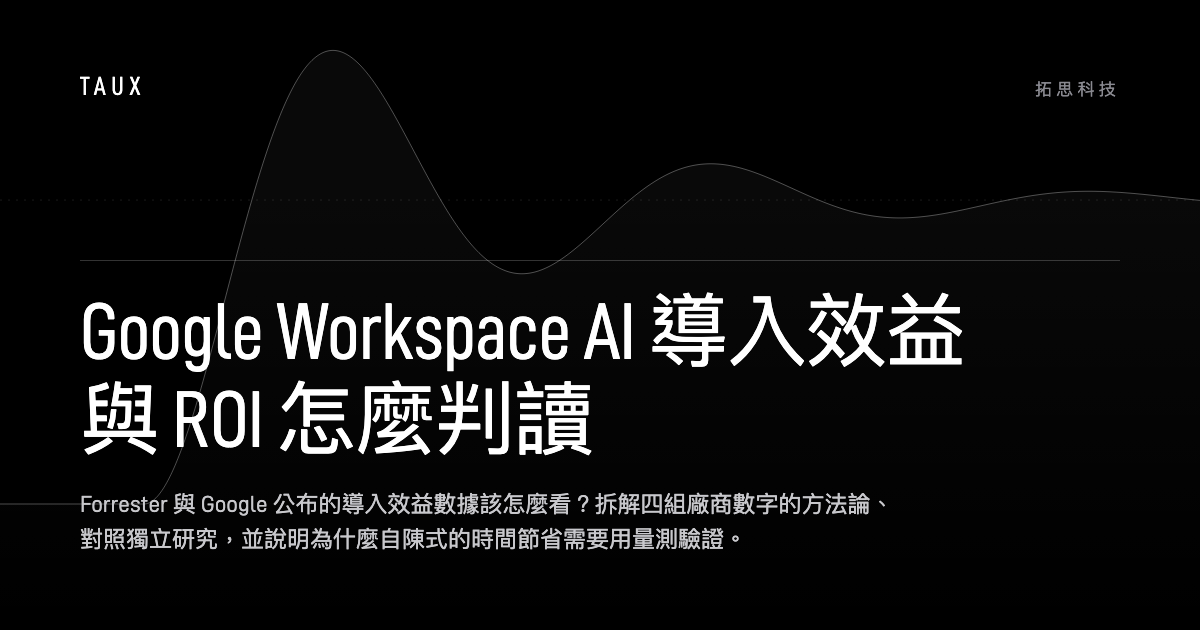
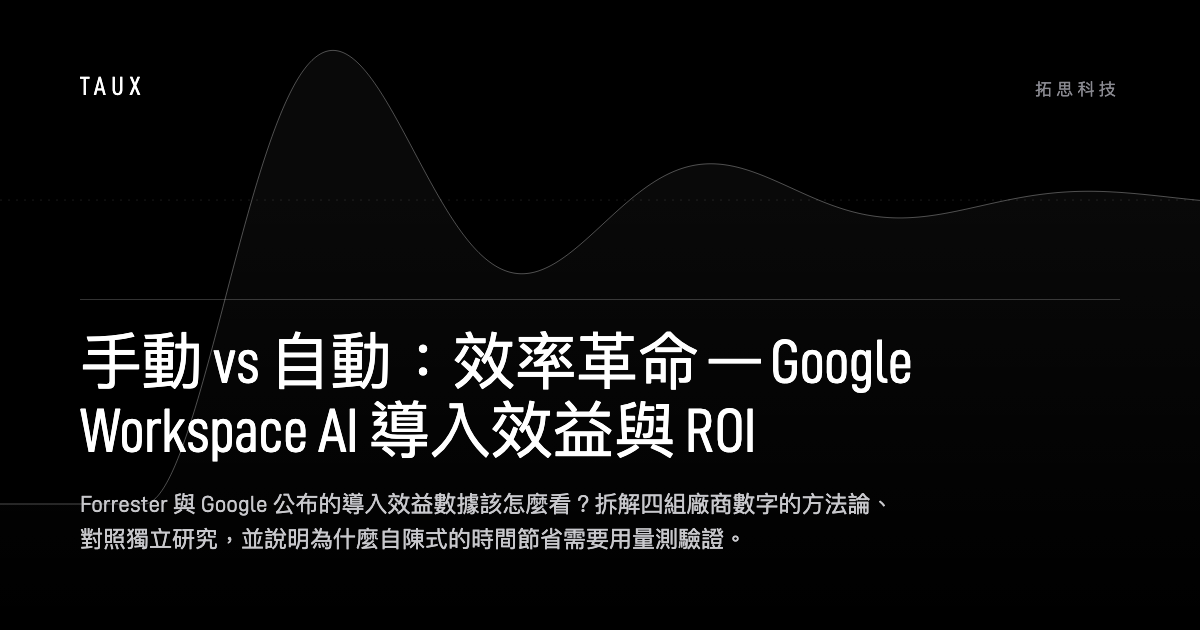
fix: address the review findings on the ROI guide skeleton
Refs #17.

**Chinese text in .eyebrow** — the class applies uppercase and 0.25em
tracking, which NOTES.md reserves for Latin precisely because Chinese has
no uppercase and reads badly when tracked. Five instances on the new page
are now Latin. The review claimed every other eyebrow in the repo was
already Latin-only; that was wrong — index.html carried `TauX — 拓思科技`.
It is fixed here too. Leaving a known breach of a documented rule in place
because it predates the change is how the rule becomes optional, and this
project has spent long enough undoing exactly that.

**An unsourced claim on an indexed page** — the hero asserted that all four
figures had been verified and were accurate, on a page that carries no
sources until #18. On a page whose argument is that claims need their
method shown, that was the wrong thing to ship. The claim waits for the
evidence.

**Scope belonging to #18** — the section bodies had been arguing the
article's case rather than describing what the sections will hold. Reduced
to scaffolding. The closing call to action stays: a page reachable from
the menu with no way out is worse than a little bleed, and #18 refines it.

**A share card announcing a different article** — the card takes its title
from main.go, so a reader clicked one headline and landed on another. The
document title now leads with the h1 and keeps the search terms after it,
so both agree.

**Two copies of the description** — the JSON-LD now reads {{ .Description }}
[…]

Changed region(s): [[0.0617, 0.4524, 0.8017, 0.7238]]

diff --git a/templates/workspace-ai-roi.html b/templates/workspace-ai-roi.html
@@ -18,7 +18,7 @@
       "@type": "Article",
       "@id": "https://taux.io/workspace-ai-roi#article",
       "headline": "手動 vs 自動：效率革命",
-      "description": "Forrester 與 Google 公布的導入效益數據該怎麼看？拆解四組廠商數字的方法論、對照獨立研究，並說明為什麼自陳式的時間節省需要用量測驗證。",
+      "description": "{{ .Description }}",
       "author": { "@type": "Organization", "name": "TauX 拓思科技", "url": "https://taux.io" },
       "publisher": {
         "@type": "Organization",
@@ -38,15 +38,15 @@
 <article class="relative pt-32 pb-16 px-6 overflow-hidden bg-surface">
     <div class="max-w-4xl mx-auto relative z-10">
         <header>
-            <p class="eyebrow mb-8">Google Workspace — 導入效益</p>
+            <p class="eyebrow mb-8">Google Workspace — Adoption</p>
 
             <h1 class="font-display text-4xl md:text-display-lg leading-[1.05] mb-8 text-ink">
                 手動 vs 自動：效率革命
             </h1>
 
             <p class="text-lg md:text-xl text-ink-body leading-relaxed max-w-2xl">
-                廠商公布的導入效益數字都很漂亮。問題不在它們是真是假——四組主要數據我們逐一查證過，數字全部屬實——
-                而在於它們<strong class="text-ink font-normal">測的是什麼</strong>，以及那個測法能不能預測你的組織會發生什麼。
+                廠商公布的導入效益數字都很漂亮。這一頁要處理的不是它們是真是假，
+                而是它們<strong class="text-ink font-normal">測的是什麼</strong>，以及那個測法能不能預測你的組織會發生什麼。
             </p>
         </header>
 
@@ -60,7 +60,7 @@
 
 <section id="vendor-figures" class="py-20 md:py-24 bg-surface border-t border-line">
     <div class="max-w-4xl mx-auto px-6">
-        <p class="eyebrow mb-8">01 — 廠商公布的數字</p>
+        <p class="eyebrow mb-8">01 &mdash; Vendor Figures</p>
         <h2 class="font-display text-3xl md:text-display-sm text-ink mb-6">他們說省下了多少</h2>
         <p class="text-ink-body leading-relaxed max-w-2xl">
             四組被引用最廣的數據，來自 Forrester 的委託研究、Google 的企業調查，以及兩家企業的導入案例。
@@ -71,33 +71,30 @@
 
 <section id="independent-evidence" class="py-20 md:py-24 bg-surface border-t border-line">
     <div class="max-w-4xl mx-auto px-6">
-        <p class="eyebrow mb-8">02 — 獨立研究怎麼說</p>
+        <p class="eyebrow mb-8">02 &mdash; Independent Research</p>
         <h2 class="font-display text-3xl md:text-display-sm text-ink mb-6">效益是真的，這點有非廠商證據</h2>
         <p class="text-ink-body leading-relaxed max-w-2xl">
-            隨機對照與實地實驗確實測到生產力提升，而且對經驗較少的工作者效益不成比例地大。
-            這些研究不是任何廠商委託的。
+            非廠商委託的隨機對照與實地實驗，以及它們的樣本規模與量測方式。
         </p>
     </div>
 </section>
 
 <section id="measurement-gap" class="py-20 md:py-24 bg-surface border-t border-line">
     <div class="max-w-4xl mx-auto px-6">
-        <p class="eyebrow mb-8">03 — 但測法決定了數字的意義</p>
+        <p class="eyebrow mb-8">03 &mdash; How It Was Measured</p>
         <h2 class="font-display text-3xl md:text-display-sm text-ink mb-6">人對自己省下多少時間的判斷並不可靠</h2>
         <p class="text-ink-body leading-relaxed max-w-2xl">
-            目前唯一一項針對資深專業工作者、以客觀計時進行的隨機對照試驗，得到的結果與受試者的自我評估方向相反。
-            這不否定 AI 的效益，但它決定了廠商數字該怎麼讀。
+            自陳與客觀計時之間的差距，以及它對前兩節數字的意義。
         </p>
     </div>
 </section>
 
 <section id="what-to-do" class="py-20 md:py-24 bg-surface-deep border-t border-line">
     <div class="max-w-4xl mx-auto px-6">
-        <p class="eyebrow mb-8">04 — 那該怎麼辦</p>
+        <p class="eyebrow mb-8">04 &mdash; Measurement</p>
         <h2 class="font-display text-3xl md:text-display-sm text-ink mb-6">用量測回答，不要用簡報回答</h2>
         <p class="text-lg text-ink-body leading-relaxed max-w-xl mb-12">
-            沒有任何一份報告能告訴你在你的組織會發生什麼。能回答那個問題的只有量測，
-            而量測要在導入之前就設計好。
+            導入前該先設計好的量測，以及它為什麼比任何一份報告更能回答你的問題。
         </p>
 
         <div class="flex flex-col sm:flex-row gap-4">

diff --git a/templates/index.html b/templates/index.html
@@ -87,7 +87,7 @@
             class="absolute left-0 w-full top-[-20%] h-[140%] pointer-events-none"></canvas>
 
     <div data-parallax="0.08" class="max-w-6xl mx-auto px-6 relative z-10 w-full py-28 md:py-36">
-        <p class="eyebrow mb-8 animate-stagger-1">TauX — 拓思科技</p>
+        <p class="eyebrow mb-8 animate-stagger-1">TauX</p>
 
         <h1 class="font-display text-4xl md:text-display-lg leading-[1.05] mb-10 text-ink animate-stagger-1 max-w-3xl">
             Code the future<br>

diff --git a/templates/footer.html b/templates/footer.html
@@ -85,7 +85,7 @@
      canvas, so it costs nothing where it is not used. -->
 <script src="/static/js/tau-curve.js?v=1" defer></script>
 <script src="/static/js/parallax.js?v=1" defer></script>
-<script src="/static/js/script.js?v=8"></script>
+<script src="/static/js/script.js?v=7"></script>
 </body>
 
 </html>

diff --git a/main.go b/main.go
@@ -155,7 +155,7 @@ func main() {
 
 	r.GET("/workspace-ai-roi", func(c *gin.Context) {
 		c.HTML(http.StatusOK, "workspace-ai-roi.html", PageData{
-			Title:       "Google Workspace AI 導入效益與 ROI 怎麼判讀 | TauX",
+			Title:       "手動 vs 自動：效率革命｜Google Workspace AI 導入效益與 ROI | TauX",
 			Description: "Forrester 與 Google 公布的導入效益數據該怎麼看？拆解四組廠商數字的方法論、對照獨立研究，並說明為什麼自陳式的時間節省需要用量測驗證。",
 			Canonical:   "https://taux.io/workspace-ai-roi",
 			Year:        time.Now().Year(),

diff --git a/NOTES.md b/NOTES.md
@@ -104,7 +104,7 @@ Tailwind 掃描模板產生它，所以**改完模板沒重建就會靜默失效
 
 - **圖示**：由 `static/brand/icon-master.png` 產生。母檔與輸出分離是必要的——腳本會覆寫 `android-chrome-512x512.png`，若從那裡讀來源，第二次執行會吃自己的輸出並產出白方塊。
 - **結構化資料 logo**：`static/brand/logo-on-light.png`，由 `taux-logo-light.png` 裁切而來。**命名描述使用情境而非顏色**：原本的 `taux-logo-dark.png`（給深色底用的白色標記）曾被誤當成「深色的 logo」放進 JSON-LD，於是 Google 收到一張白底白字。
-- **OG 分享卡**：15 張，標題取自 `main.go`，檔名由 canonical URL 推導——與 `ogImage` template helper 用同一條規則，兩邊不可能分歧。
+- **OG 分享卡**：每條路由一張，標題取自 `main.go`，檔名由 canonical URL 推導——與 `ogImage` template helper 用同一條規則，兩邊不可能分歧。
 
 ---
 
